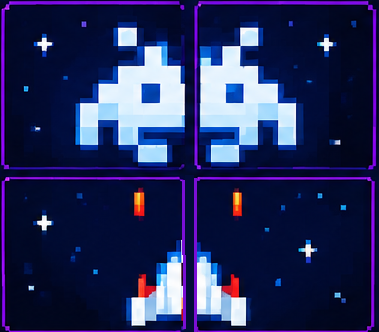
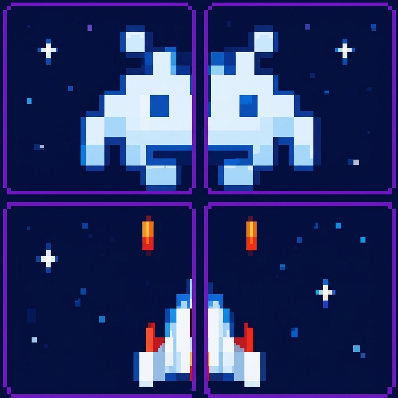
Mas avances en BlockA

diff --git a/TPE Parte 3/css/styles.css b/TPE Parte 3/css/styles.css
@@ -248,10 +248,10 @@ body {
   min-width: 200px; width: 200px; flex: 0 0 auto; border: none; cursor: pointer;
   scroll-snap-align: start;
 }
-.game-card img { width: 100%; height: 130px; object-fit: cover; display: block; }
+.game-card img { width: 100%; aspect-ratio: 1 / 1; height: auto; object-fit: cover; display: block; }
 @media (max-width: 640px) {
   .game-card { min-width: 156px; width: 156px; }
-  .game-card img { height: 104px; }
+  .game-card img { height: auto; aspect-ratio: 1 / 1; }
 }
 .game-name {
   display: block; background-color: var(--purple); color: #101020;
@@ -482,16 +482,16 @@ img.logo_footer { width: 5rem; height: auto; display: block; }
 .instructions-list { list-style: none; display: flex; flex-direction: column; gap: 0.4rem; }
 .instructions-list li::before { content: "• "; font-weight: 900; }
 
-/* Galería: miniaturas retrato 3:5 como en Figma, sin recortes */
+/* Galería: miniaturas cuadradas 1:1, sin deformación */
 .gallery-grid { display: grid; grid-template-columns: repeat(4, 1fr); gap: 0.7rem; }
 .gallery-item {
   border-radius: 0.6rem; overflow: hidden; cursor: pointer;
   border: 2px solid #22d3ee; box-shadow: 0 0 12px rgba(34, 211, 238, 0.35);
-  aspect-ratio: 3 / 5; background: #0b0e1a;
+  aspect-ratio: 1 / 1; background: #0b0e1a;
 }
 .gallery-item:nth-child(3n) { border-color: #f0f; box-shadow: 0 0 12px rgba(255, 0, 255, 0.35); }
 .gallery-item:nth-child(4n) { border-color: #f43f5e; }
-.gallery-item img { width: 100%; height: 100%; object-fit: cover; object-position: center top; display: block; }
+.gallery-item img { width: 100%; height: 100%; object-fit: cover; object-position: center; display: block; }
 
 /* Comentarios: tarjeta lavanda + burbujas blancas */
 .comments-section .comment-input-box { display: flex; gap: 0.5rem; }

diff --git a/TPE Parte 3/juego_BlockA.html b/TPE Parte 3/juego_BlockA.html
@@ -52,7 +52,7 @@
     </div>
   </header>
 
-  <!-- BREADCRUMB -->
+  <!-- BREADCRUMB -->asdsada
   <nav class="breadcrumb-container">
     <a href="index.html" class="breadcrumb-link">Home</a> 
     <span class="breadcrumb-separator"><i class="fa-solid fa-play"></i></span> 
